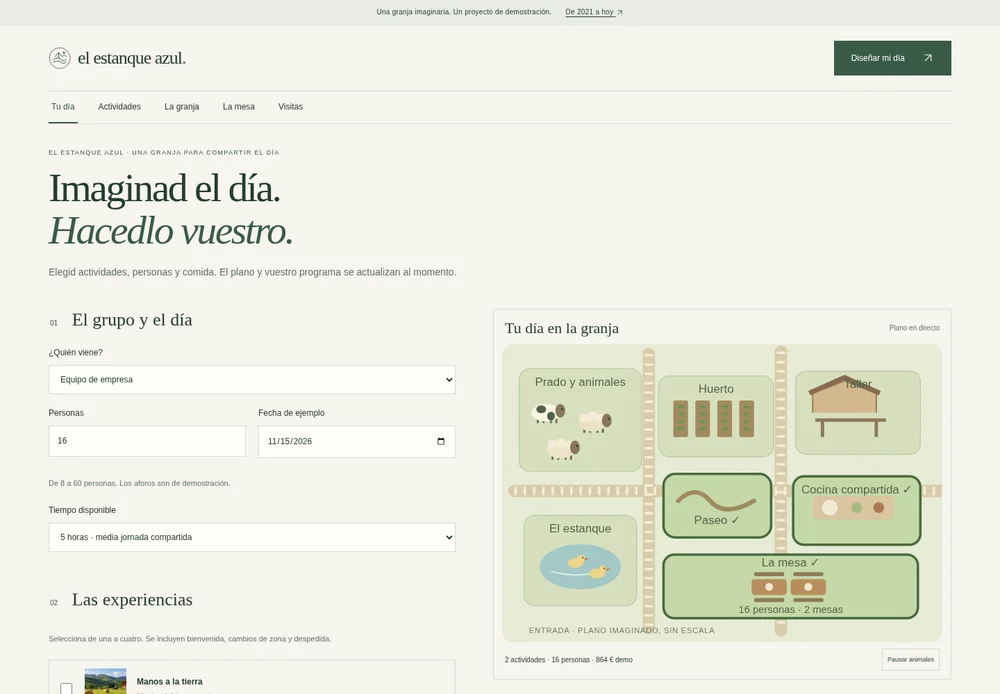
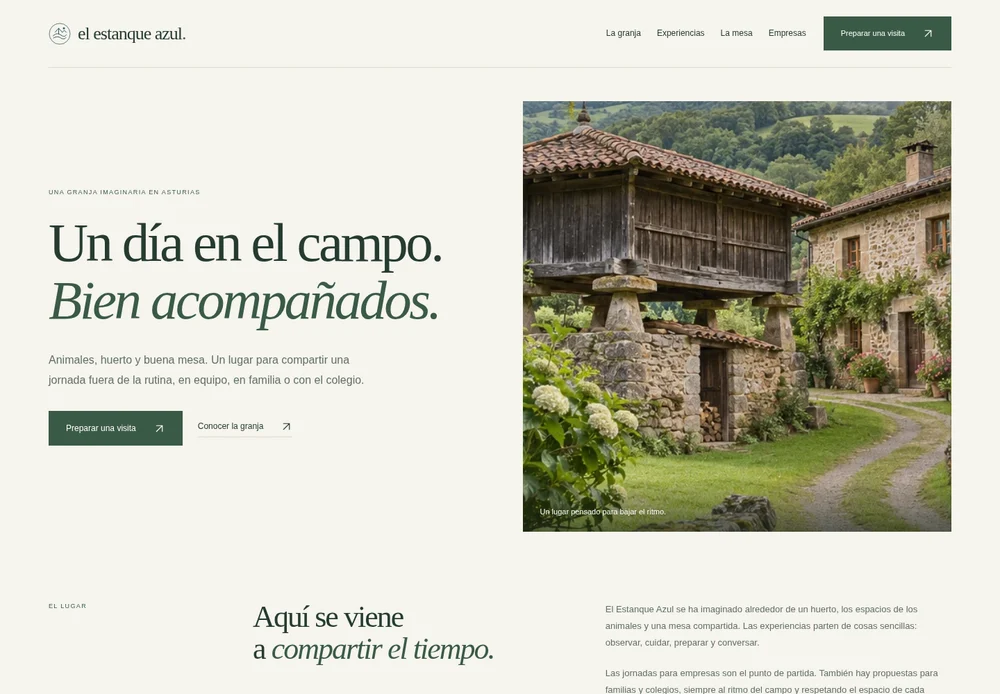
Refresh the farm case with coherent imagery and calculated visit planning

diff --git a/index.html b/index.html
@@ -55,7 +55,7 @@
       <div class="archive-heading"><h3>Donde empezó todo</h3><p>Mis primeras webs, con su año de origen y nuevas formas de revisitarlas.</p></div>
       <div class="project-grid">
 <article class="project-lineage" aria-label="Tinyspace: original y rediseño del mismo proyecto"><header class="lineage-heading"><div><h3>Tinyspace</h3><p>Del primer catálogo de mobiliario a una tienda que permite probar sus muebles a escala.</p></div><span class="lineage-years"><time datetime="2022">2022</time><span aria-hidden="true">→</span><time datetime="2026">2026</time></span></header><div class="lineage-versions"><section class="lineage-original"><p class="version-badge">EL ORIGINAL · 2022</p><a class="lineage-image" href="https://tinyspace.nmclabs.dev/" target="_blank" rel="noopener noreferrer" aria-label="Visitar Tinyspace original (pestaña nueva)"><img src="proyectos/tinyspace-original-card.webp" width="1440" height="1000" alt="Tinyspace: versión original" loading="lazy"></a><h4>El primer catálogo.</h4><p>Un concepto de mueblería para practicar HTML, CSS, imágenes y composición.</p><a class="lineage-action" href="https://tinyspace.nmclabs.dev/" target="_blank" rel="noopener noreferrer">Visitar original <svg class="icon-arrow" viewBox="0 0 24 24" fill="none" aria-hidden="true"><path d="m6 18 12-12M6 6h12v12" stroke="currentColor" stroke-width="1.7" stroke-linecap="round" stroke-linejoin="round"/></svg></a></section><section class="lineage-new"><p class="version-badge">EL REDISEÑO · 2026 · NMC LABS</p><a class="lineage-image" href="https://tiny.nmclabs.dev/" target="_blank" rel="noopener noreferrer" aria-label="Explorar Tinyspace rediseñado (pestaña nueva)"><img src="proyectos/tinyspace-redesign-card.webp" width="1440" height="1000" alt="Tinyspace: nueva versión de NMC Labs" loading="lazy"></a><h4>Tienda y plano a medida.</h4><p>Treinta productos, una habitación editable y propuestas para empresas.</p><a class="lineage-action primary" href="https://tiny.nmclabs.dev/" target="_blank" rel="noopener noreferrer">Explorar rediseño <svg class="icon-arrow" viewBox="0 0 24 24" fill="none" aria-hidden="true"><path d="m6 18 12-12M6 6h12v12" stroke="currentColor" stroke-width="1.7" stroke-linecap="round" stroke-linejoin="round"/></svg></a></section></div><footer class="lineage-footer"><span>Un mismo proyecto. Dos etapas.</span><a href="proyectos/tinyspace.html">Ver su historia y evolución <span aria-hidden="true">→</span></a></footer></article>
-<article class="project-lineage" aria-label="El Estanque Azul: original y rediseño del mismo proyecto"><header class="lineage-heading"><div><h3>El Estanque Azul</h3><p>De presentar una granja a diseñar una jornada con su propio programa.</p></div><span class="lineage-years"><time datetime="2021">2021</time><span aria-hidden="true">→</span><time datetime="2026">2026</time></span></header><div class="lineage-versions"><section class="lineage-original"><p class="version-badge">EL ORIGINAL · 2021</p><a class="lineage-image" href="https://estanque.nmclabs.dev/" target="_blank" rel="noopener noreferrer" aria-label="Visitar El Estanque Azul original (pestaña nueva)"><img src="proyectos/estanque-original-card.webp" width="1440" height="1000" alt="El Estanque Azul: versión original" loading="lazy"></a><h4>Mi primera web.</h4><p>Una granja imaginaria como primer proyecto de HTML y CSS.</p><a class="lineage-action" href="https://estanque.nmclabs.dev/" target="_blank" rel="noopener noreferrer">Visitar original <svg class="icon-arrow" viewBox="0 0 24 24" fill="none" aria-hidden="true"><path d="m6 18 12-12M6 6h12v12" stroke="currentColor" stroke-width="1.7" stroke-linecap="round" stroke-linejoin="round"/></svg></a></section><section class="lineage-new"><p class="version-badge">EL REDISEÑO · 2026 · NMC LABS</p><a class="lineage-image" href="https://granja.nmclabs.dev/" target="_blank" rel="noopener noreferrer" aria-label="Explorar El Estanque Azul rediseñado (pestaña nueva)"><img src="proyectos/estanque-redesign-card.webp" width="1440" height="1000" alt="El Estanque Azul: nueva versión de NMC Labs" loading="lazy"></a><h4>Diseña un día en la granja.</h4><p>Un plano interactivo que conecta actividades, comida y presupuesto.</p><a class="lineage-action primary" href="https://granja.nmclabs.dev/" target="_blank" rel="noopener noreferrer">Explorar rediseño <svg class="icon-arrow" viewBox="0 0 24 24" fill="none" aria-hidden="true"><path d="m6 18 12-12M6 6h12v12" stroke="currentColor" stroke-width="1.7" stroke-linecap="round" stroke-linejoin="round"/></svg></a></section></div><footer class="lineage-footer"><span>Un mismo proyecto. Dos etapas.</span><a href="proyectos/estanque-azul.html">Ver su historia y evolución <span aria-hidden="true">→</span></a></footer></article>
+<article class="project-lineage" aria-label="El Estanque Azul: original y rediseño del mismo proyecto"><header class="lineage-heading"><div><h3>El Estanque Azul</h3><p>De presentar una granja a diseñar una jornada con su propio programa.</p></div><span class="lineage-years"><time datetime="2021">2021</time><span aria-hidden="true">→</span><time datetime="2026">2026</time></span></header><div class="lineage-versions"><section class="lineage-original"><p class="version-badge">EL ORIGINAL · 2021</p><a class="lineage-image" href="https://estanque.nmclabs.dev/" target="_blank" rel="noopener noreferrer" aria-label="Visitar El Estanque Azul original (pestaña nueva)"><img src="proyectos/estanque-original-card.webp" width="1440" height="1000" alt="El Estanque Azul: versión original" loading="lazy"></a><h4>Mi primera web.</h4><p>Una granja imaginaria como primer proyecto de HTML y CSS.</p><a class="lineage-action" href="https://estanque.nmclabs.dev/" target="_blank" rel="noopener noreferrer">Visitar original <svg class="icon-arrow" viewBox="0 0 24 24" fill="none" aria-hidden="true"><path d="m6 18 12-12M6 6h12v12" stroke="currentColor" stroke-width="1.7" stroke-linecap="round" stroke-linejoin="round"/></svg></a></section><section class="lineage-new"><p class="version-badge">EL REDISEÑO · 2026 · NMC LABS</p><a class="lineage-image" href="https://granja.nmclabs.dev/" target="_blank" rel="noopener noreferrer" aria-label="Explorar El Estanque Azul rediseñado (pestaña nueva)"><img src="proyectos/estanque-redesign-card.webp" width="1440" height="1000" alt="El Estanque Azul: nueva versión de NMC Labs" loading="lazy"></a><h4>Diseña un día en la granja.</h4><p>Descubre la granja y prepara una visita con duración y presupuesto calculados.</p><a class="lineage-action primary" href="https://granja.nmclabs.dev/" target="_blank" rel="noopener noreferrer">Explorar rediseño <svg class="icon-arrow" viewBox="0 0 24 24" fill="none" aria-hidden="true"><path d="m6 18 12-12M6 6h12v12" stroke="currentColor" stroke-width="1.7" stroke-linecap="round" stroke-linejoin="round"/></svg></a></section></div><footer class="lineage-footer"><span>Un mismo proyecto. Dos etapas.</span><a href="proyectos/estanque-azul.html">Ver su historia y evolución <span aria-hidden="true">→</span></a></footer></article>
 <article class="archive-single"><a class="project-image" href="https://skullscape.nmclabs.dev" target="_blank" rel="noopener noreferrer" aria-label="Visitar SkullScape (pestaña nueva)"><img src="proyectos/skullscape-cover.webp" alt="Imagen generada de un hombre con auriculares" width="1000" height="667" loading="lazy" decoding="async"><span class="image-arrow" aria-hidden="true"><svg class="icon-arrow" viewBox="0 0 24 24" fill="none" aria-hidden="true"><path d="m6 18 12-12M6 6h12v12" stroke="currentColor" stroke-width="1.7" stroke-linecap="round" stroke-linejoin="round"/></svg></span></a><div class="archive-single-copy"><div class="card-heading"><h3>SkullScape.</h3><time datetime="2023">2023</time></div><p>Una tienda de auriculares como ejercicio de diseño y maquetación web.</p><div class="card-links"><a href="https://skullscape.nmclabs.dev" target="_blank" rel="noopener noreferrer">Ver original <span aria-hidden="true"><svg class="icon-arrow" viewBox="0 0 24 24" fill="none" aria-hidden="true"><path d="m6 18 12-12M6 6h12v12" stroke="currentColor" stroke-width="1.7" stroke-linecap="round" stroke-linejoin="round"/></svg></span><span class="sr-only"> SkullScape (pestaña nueva)</span></a></div><details class="project-context archive-context"><summary>Sobre este proyecto</summary><div><p>Un ejercicio personal de diseño y maquetación de una marca ficticia de auriculares, iniciado en septiembre de 2023.</p></div></details></div></article>
       </div>
     </section>

diff --git a/proyectos/estanque-azul.html b/proyectos/estanque-azul.html
@@ -20,7 +20,7 @@
 <body id="inicio"><a class="skip-link" href="#contenido">Saltar al contenido</a><header class="header wrap"><a class="brand" href="../index.html" aria-label="NMC Labs, volver a los proyectos"><img src="favicon2.png" width="38" height="38" alt=""><span>NMC Labs<span class="brand-dot">.</span></span></a><nav aria-label="Navegación principal"><a href="../index.html#proyectos">Proyectos</a><a href="../index.html#sobre-mi">Sobre mí</a><a href="../index.html#contacto">Contacto ↗</a></nav></header>
 <main id="contenido" class="case-main wrap"><p class="eyebrow">EL ESTANQUE AZUL / 2021 → 2026</p><h1>Mi primera web.<br>Una <em>nueva mirada.</em></h1><p class="case-lead">Una granja ficticia fue mi punto de partida para aprender HTML y CSS. En esta nueva versión revisito el proyecto como una granja para jornadas de equipo, con propuestas propias para colegios y familias.</p><dl class="case-meta"><div><dt>ORIGEN</dt><dd>Primera evaluación de ASIR · 2021</dd></div><div><dt>REINTERPRETACIÓN</dt><dd>NMC Labs · 2026</dd></div><div><dt>MI TRABAJO</dt><dd>Concepto, diseño y desarrollo</dd></div><div><dt>TECNOLOGÍAS</dt><dd>HTML · CSS · JavaScript</dd></div></dl>
 <section class="case-section"><h2>De dónde partía</h2><div><p>En diciembre de 2021 empecé El Estanque Azul como proyecto académico de la primera evaluación de ASIR. La web presentaba una granja imaginaria a través de sus animales, instalaciones y equipo.</p><p>Me permitió practicar la estructura de una página, los estilos y la organización de distintas secciones. Sigue disponible como parte de mis primeras exploraciones web.</p><p>La versión original ha recibido mantenimiento e imágenes nuevas con el tiempo; el año indica el inicio del proyecto, no una copia intacta de la entrega de 2021.</p><a href="https://estanque.nmclabs.dev/" target="_blank" rel="noopener noreferrer">Visitar el proyecto original ↗</a><figure class="case-screenshot"><img src="estanque-original.webp" alt="Vista de la versión anterior: navegación naranja, cabecera de la granja y sección Nuestra granja" width="1280" height="900" loading="lazy"><figcaption>La versión anterior, conservada y mantenida. Proyecto iniciado en 2021.</figcaption></figure></div></section>
-<section class="case-section"><h2>La nueva dirección</h2><div><p>La reinterpretación propone una granja para compartir un día fuera de la oficina: conversar, crear y cuidar a través de actividades de campo.</p><p>La propuesta mantiene el entorno rural y los animales, con una nueva identidad visual en tonos de campo y estanque, tipografía editorial y una navegación que conecta presentación, experiencias y planificación.</p><ul><li><strong>Elegir una intención.</strong> Tres programas de partida para conectar, crear o cuidar.</li><li><strong>Combinar experiencias.</strong> Seis propuestas de huerto, observación de animales, cocina, paseo y taller.</li><li><strong>Diseñar una jornada.</strong> Un planificador en la portada con tipo de grupo, participantes, fecha, duración, comida y alternativa bajo cubierta.</li><li><strong>Comprobar el programa.</strong> Horario con bienvenida, actividades, transiciones, descansos y despedida. Las combinaciones que no caben se rechazan.</li><li><strong>Preparar una propuesta.</strong> Plano interactivo con zonas activas, animales animados y mesas según el grupo. Presupuesto en directo, guardado local, descarga e impresión.</li><li><strong>Conocer la granja.</strong> Historia del lugar, galería ampliable, nueve especies y visitas propias para colegios y familias.</li><li><strong>Compartir la comida.</strong> Picnic o mesa de temporada, con elección conectada al presupuesto.</li></ul><figure class="case-screenshot"><img src="estanque-redesign.png" alt="El Estanque Azul rediseñado para jornadas de empresa en el campo" width="1440" height="1000" loading="lazy"><figcaption>La nueva dirección: salir de la oficina y diseñar un día para compartir.</figcaption></figure><figure class="case-screenshot"><img src="estanque-configurador.png" alt="Configurador de jornada con actividades, horario y presupuesto demo" width="1440" height="1000" loading="lazy"><figcaption>El programa conecta la elección de actividades con el tiempo disponible y el presupuesto.</figcaption></figure></div></section>
+<section class="case-section"><h2>La nueva dirección</h2><div><p>La reinterpretación propone una granja para compartir un día fuera de la oficina: conversar, crear y cuidar a través de actividades de campo.</p><p>La propuesta mantiene el entorno rural y los animales, con una nueva identidad visual en tonos de campo y estanque, tipografía editorial y una navegación que conecta presentación, experiencias y planificación.</p><ul><li><strong>Elegir una intención.</strong> Tres programas de partida para conectar, crear o cuidar.</li><li><strong>Combinar experiencias.</strong> Seis propuestas de huerto, observación de animales, cocina, paseo y taller.</li><li><strong>Diseñar una jornada.</strong> Un configurador separado de la presentación, con grupo, fecha, experiencias, comida y duración calculada.</li><li><strong>Comprobar el programa.</strong> Horario con bienvenida, actividades, transiciones, descansos y despedida. Las combinaciones que no caben se rechazan.</li><li><strong>Preparar una propuesta.</strong> Fotografías y plano coherentes del mismo lugar. Picnic y comida en mesa diferenciados, duración y presupuesto calculados, guardado local, descarga e impresión.</li><li><strong>Conocer la granja.</strong> Historia del lugar, galería ampliable, nueve especies y visitas propias para colegios y familias.</li><li><strong>Compartir la comida.</strong> Picnic o mesa de temporada, con elección conectada al presupuesto.</li></ul><figure class="case-screenshot"><img src="estanque-redesign.png" alt="El Estanque Azul rediseñado para jornadas de empresa en el campo" width="1440" height="1000" loading="lazy"><figcaption>La nueva dirección: salir de la oficina y diseñar un día para compartir.</figcaption></figure><figure class="case-screenshot"><img src="estanque-configurador.png" alt="Configurador de jornada con actividades, horario y presupuesto demo" width="1440" height="1000" loading="lazy"><figcaption>El programa conecta la elección de actividades con el tiempo disponible y el presupuesto.</figcaption></figure></div></section>
 <section class="case-section"><h2>Más que un cambio visual</h2><div><p>La nueva web incorpora imágenes optimizadas en WebP, diseño adaptable, navegación por teclado, formularios etiquetados y foco visible. El contenido principal se puede consultar sin JavaScript; la interacción del planificador se ejecuta en el navegador.</p><p>La demo no pide nombre ni correo. Guarda el programa solo en el navegador y no hace reservas, cobros ni solicitudes a terceros. La granja y sus experiencias son ficticias, y las escenas se han generado con IA.</p><p>El objetivo es mostrar cómo ha cambiado mi forma de abordar una web: además de construir páginas, pensar qué necesita encontrar la persona que las visita y facilitarle el siguiente paso.</p></div></section>
 <section class="case-section"><h2>Dos etapas del mismo proyecto</h2><div><p>El original sigue en su dirección y repositorio. La nueva versión tiene su propio repositorio privado y se publica de forma independiente en granja.nmclabs.dev, con alojamiento en Netlify.</p><p><a href="https://granja.nmclabs.dev/" target="_blank" rel="noopener noreferrer">Explorar la nueva versión ↗</a></p></div></section><a class="button" href="../index.html#proyectos">Volver a los proyectos <span aria-hidden="true">↗</span></a></main>
 <footer class="nmc-footer wrap"><a class="brand" href="../index.html" aria-label="NMC Labs, inicio"><img src="favicon2.png" width="28" height="28" alt=""><span>NMC Labs<span class="brand-dot">.</span></span></a><span class="nmc-footer__credit">© <span data-year>2026</span></span><nav class="nmc-footer__nav" aria-label="Enlaces de NMC Labs"><a href="https://github.com/nelmarcoss" target="_blank" rel="noopener noreferrer">GitHub<span class="sr-only"> (pestaña nueva)</span></a><a href="https://www.linkedin.com/in/nelmarcos/" target="_blank" rel="noopener noreferrer">LinkedIn<span class="sr-only"> (pestaña nueva)</span></a><a href="../index.html#contacto">Contacto</a></nav></footer></body>

diff --git a/docs/seo.md b/docs/seo.md
@@ -29,7 +29,7 @@ Usa siempre los dominios de producción en las canónicas y en los enlaces públ
 
 Tramo genera HTML de inicio legible sin JavaScript y shells de cuenta/demo con `noindex` en el postbuild. Sus metadatos también se actualizan al navegar dentro de la aplicación. Los scripts JSON-LD de las webs estáticas tienen hashes explícitos en su política CSP.
 
-Tinyspace publica treinta fichas de producto con enlaces HTML rastreables, además de tienda, planificador, empresas y proyecto. El checkout demo queda fuera del índice. El Estanque Azul publica ocho páginas indexables: el planificador está en la portada y la antigua ruta `/configurador/` se conserva como vista compatible con `noindex` y canónica hacia la portada. Ambas webs generan sus metadatos y hashes CSP en el build; no presentan ofertas o reservas comerciales ficticias en los datos estructurados.
+Tinyspace publica treinta fichas de producto con enlaces HTML rastreables, además de tienda, planificador, empresas y proyecto. El checkout demo queda fuera del índice. El Estanque Azul publica nueve páginas indexables: una portada editorial de presentación y un configurador separado con contenido y canónica propios. La duración se calcula según las experiencias y la comida. Ambas webs generan sus metadatos y hashes CSP en el build; no presentan ofertas o reservas comerciales ficticias en los datos estructurados.
 
 ## Comprobación después de enviar los sitemaps
 
@@ -41,7 +41,7 @@ El estado «Correcto» indica que Google ha podido leer el sitemap; las páginas
 | Platto | 3 |
 | Atlas | 1 |
 | Tramo | 1 |
-| El Estanque Azul | 8 |
+| El Estanque Azul | 9 |
 | Tinyspace | 34 |
 
 Las pantallas privadas y demos excluidas no deben añadirse para aumentar esas cifras. Si Search Console muestra cifras anteriores, necesita volver a leer y procesar el sitemap. No es necesario borrar la propiedad o los sitemaps enviados.
